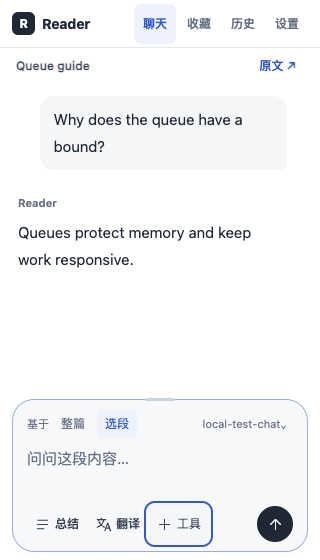
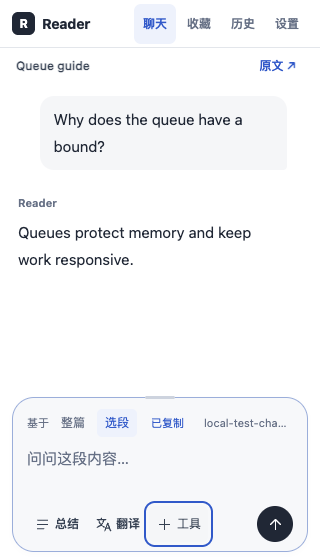
fix(reader): add direct copy for the current selection

Changed region(s): [[0.0625, 0.6982, 0.9375, 0.7893], [0.9375, 0.7286, 0.9688, 0.7589], [0.0312, 0.7286, 0.0625, 0.7589]]

diff --git a/apps/extension/sidepanel.css b/apps/extension/sidepanel.css
@@ -94,12 +94,12 @@ h1, h2, h3, p { margin: 0; }
 .composer-scope-label { color: var(--muted); font-size: 11px; }
 .composer-context-status { display: none; }
 .composer-question-label { position: absolute; width: 1px; height: 1px; overflow: hidden; clip-path: inset(50%); }
-.composer-model { margin-left: auto; max-width: 46%; overflow: hidden; text-overflow: ellipsis; white-space: nowrap; min-height: 28px; padding: 2px 6px; border: 0; border-radius: 6px; background: transparent; color: var(--muted); font-size: 11px; }
+.composer-model { margin-left: auto; min-width: 0; max-width: 46%; overflow: hidden; text-overflow: ellipsis; white-space: nowrap; min-height: 28px; padding: 2px 6px; border: 0; border-radius: 6px; background: transparent; color: var(--muted); font-size: 11px; }
 .composer-model:hover { background: var(--line); color: var(--ink); }
 .composer-context-row:has(.discussion-scope-options:not(.hidden)) .composer-scope-label { display: none; }
-.discussion-scope-options { display: flex; align-items: center; gap: 4px; }
-.discussion-scope-label { color: var(--muted); font-size: 11px; }
-.scope-option { min-height: 28px; padding: 3px 8px; border: 0; border-radius: 5px; color: var(--muted); background: transparent; font-size: 12px; }
+.discussion-scope-options { display: flex; flex: none; align-items: center; gap: 4px; }
+.discussion-scope-label { white-space: nowrap; color: var(--muted); font-size: 11px; }
+.scope-option { flex: none; white-space: nowrap; min-height: 28px; padding: 3px 8px; border: 0; border-radius: 5px; color: var(--muted); background: transparent; font-size: 12px; }
 .scope-option.active { color: var(--accent); background: var(--accent-soft); }
 .chat-composer textarea { display: block; width: 100%; height: 60px; min-height: 60px; max-height: min(240px,40dvh); padding: 4px 0; margin: 0; border: 0; border-radius: 0; outline: none; background: transparent; font-size: 15px; line-height: 1.65; resize: none; }
 .chat-composer textarea:focus-visible { outline: none; }
@@ -209,3 +209,6 @@ input::placeholder, textarea::placeholder { color: var(--muted); }
 @media (max-height: 560px) { .masthead { height: 48px; } .discussion-source-card { min-height: 36px; padding-block: 2px; } .chat-composer { margin-bottom: 8px; } .chat-transcript { padding-block: 12px; } }
 
 @media (max-width: 359px) { .composer-tools > button, .composer-tools > details > summary { padding-inline: 7px; gap: 4px; } }
+
+.selection-copy { flex: none; min-height: 30px; padding: 3px 6px; border: 0; border-radius: 6px; color: var(--accent); background: transparent; font-size: 11px; white-space: nowrap; }
+.selection-copy:hover { background: var(--accent-soft); }

diff --git a/apps/extension/sidepanel.js b/apps/extension/sidepanel.js
@@ -133,6 +133,7 @@ function setWorkspaceView(view) {
 function setupWorkspaceLayout() {
   $('chat-to-reading')?.addEventListener('click', () => focusReadingAnchor(activeDiscussionScope() === 'selection' ? selectionContext?.selection : null));
   $('chat-translate-all')?.addEventListener('click', () => { focusReadingAnchor(null); void startFullTranslation(); });
+  $('copy-chat-selection')?.addEventListener('click', () => void copyCurrentSelection());
   $('clear-chat-selection')?.addEventListener('click', () => { selectionContext = null; discussionScope = 'page'; discussionIntent = 'ask'; renderPage(); saveLocalSession(); });
   const toolsMenu = $('chat-tools-menu');
   document.addEventListener('pointerdown', event => { if (toolsMenu?.open && !toolsMenu.contains(event.target)) toolsMenu.open = false; });
@@ -209,6 +210,21 @@ function setChatExpanded(expanded) {
   }
 }
 
+async function copyCurrentSelection() {
+  const quote = selectionContext?.selection?.quote;
+  if (activeDiscussionScope() !== 'selection' || !quote) return;
+  try {
+    await navigator.clipboard.writeText(quote);
+    const button = $('copy-chat-selection');
+    if (button) {
+      button.textContent = '已复制';
+      window.setTimeout(() => { button.textContent = '复制选段'; }, 1800);
+    }
+  } catch {
+    setNotice('浏览器没有开放剪贴板权限，请在原网页选择原文复制。');
+  }
+}
+
 function setNotice(message = '', target = $('notice')) {
   target.textContent = message;
   show(target, Boolean(message));
@@ -278,6 +294,7 @@ function renderPersistentComposer(scope = activeDiscussionScope()) {
   show(composer, visible);
   const descriptor = pageReadDescriptor(context);
   const selectionReady = scope === 'selection' && Boolean(context?.selection?.quote);
+  show($('copy-chat-selection'), selectionReady);
   const pageReady = scope !== 'page' || contextHasReadableBody(context);
   const canSend = scope === 'page'
     ? contextHasReadableBody(context)

diff --git a/apps/extension/entrypoints/sidepanel/main.tsx b/apps/extension/entrypoints/sidepanel/main.tsx
@@ -131,7 +131,7 @@ function ReaderPanel() {
               <button id="scope-selection" className="scope-option hidden" type="button" aria-pressed="false">选段</button>
               <button id="scope-image" className="scope-option hidden" type="button" aria-pressed="false">图示</button>
             </div>
-                <span id="composer-scope-label" className="composer-scope-label">整页正文</span><button id="composer-model" className="composer-model" type="button" title="模型与连接设置">阅读模型⌄</button>
+                <button id="copy-chat-selection" className="selection-copy hidden" type="button" aria-label="复制当前原文选段" title="复制当前原文选段">复制选段</button><span id="composer-scope-label" className="composer-scope-label">整页正文</span><button id="composer-model" className="composer-model" type="button" title="模型与连接设置">阅读模型⌄</button>
                 <span id="composer-context-status" className="composer-context-status">正文状态：正在读取</span><span id="chat-scope-description" className="hidden">基于整篇文章</span>
               </div>
               <div id="translation-summary" className="translation-summary hidden" role="status"><span id="translation-summary-text" /><button id="translation-summary-pause" className="text-button" type="button">暂停</button></div>

diff --git a/apps/extension/README.md b/apps/extension/README.md
@@ -6,7 +6,7 @@
 
 聊天是主要入口，输入区包含总结、翻译和“工具”菜单（文章地图、关键机制、取舍、标注与保存）。收藏和历史保持独立入口。原文继续在网页阅读，证据链接只滚动和高亮原文。
 
-聊天与历史使用同一套紧凑导航和正文排版。输入区旁显示当前模型，点击可进入连接设置；选段出现后可以切换整篇/选段范围。长问题会自动撑高输入框，也可拖动上沿或用方向键调整高度；⌘/Ctrl+Enter 发送，Enter 换行。草稿在同一侧栏进入历史再返回时保留，不承诺浏览器关闭后的草稿持久化。聊天视觉交互参考 [Open WebUI 官方聊天界面](https://docs.openwebui.com/features/chat-conversations/chat-features/)，并按浏览器侧栏宽度收敛。
+聊天与历史使用同一套紧凑导航和正文排版。输入区旁显示当前模型，点击可进入连接设置；选段出现后可以切换整篇/选段范围；选段模式旁的“复制选段”复制当前原文，成功后显示“已复制”。长问题会自动撑高输入框，也可拖动上沿或用方向键调整高度；⌘/Ctrl+Enter 发送，Enter 换行。草稿在同一侧栏进入历史再返回时保留，不承诺浏览器关闭后的草稿持久化。聊天视觉交互参考 [Open WebUI 官方聊天界面](https://docs.openwebui.com/features/chat-conversations/chat-features/)，并按浏览器侧栏宽度收敛。
 
 问答由扩展后台执行，固定使用发起时的正文、选段和聊天上下文。重新选段、翻译、打开设置、切换标签或关闭侧栏不会取消回答；结果写回对应文章版本的本地会话。重新打开会接回正在执行的任务，只有“停止回答”会主动取消。浏览器退出或强制停止 Service Worker 无法继续推理，会显示中断并保留问题；不会自动重发计费请求。
 
@@ -23,10 +23,10 @@
 1. 在仓库根目录运行 `pnpm install`（首次准备依赖），再进入本目录运行 `npm run build`。
 2. 打开 Chrome `chrome://extensions`，开启开发者模式，选择“加载已解压的扩展程序”，选中 `.output/chrome-mv3`，不要选源码目录。
 3. 打开一篇公开技术文章，点击扩展图标。
-3. 在侧栏“设置”选择运行模式：独立模式选择服务商或 Local Proxy，填写服务地址与所需的 API Key 后自动读取模型列表；localhost、127.0.0.1 和 ::1 本地服务的 Key 选填。模型列表不可用时可展开自定义模型 ID。快速连接验证只发送一个短文本请求，图片能力按需检测；平台模式连接 Deep Research 后直接使用平台 AI Engine，不需要本地模型配置。两种模式各自只显示当前模式所需的连接配置。
-4. 点击“全文翻译”。正文按块处理，图片会尝试识别文字：坐标可靠且译文能安全容纳时覆盖原文（图表纵向坐标轴使用纵向排版），坐标不足以安全覆盖时保留原图，并在对应文字外侧显示“原文 → 译文”的锚定旁译；完全无法定位时才显示整图旁侧说明。失败项会保留原因，可恢复原文后重试。
-5. 在当前页面“全文翻译”旁选择目标语言，再点击全文翻译；选择正文使用“解读 / 追问 / 收藏”。会话、收藏和有限翻译缓存使用 IndexedDB；“导出阅读数据”可导出本地 JSON，API Key 会被自动剔除；设置页可以清除全部本地会话、收藏、配置和缓存。
-6. 点击顶部“历史”，可按页面查看聊天会话或收藏的知识结论，搜索历史问题，重命名、删除和分别导出；页面版本变化后旧会话会标记为旧版本，不会错误复用原文证据。
+4. 在侧栏“设置”选择运行模式：独立模式选择服务商或 Local Proxy，填写服务地址与所需的 API Key 后自动读取模型列表；localhost、127.0.0.1 和 ::1 本地服务的 Key 选填。模型列表不可用时可展开自定义模型 ID。快速连接验证只发送一个短文本请求，图片能力按需检测；平台模式连接 Deep Research 后直接使用平台 AI Engine，不需要本地模型配置。两种模式各自只显示当前模式所需的连接配置。
+5. 点击“全文翻译”。正文按块处理，图片会尝试识别文字：坐标可靠且译文能安全容纳时覆盖原文（图表纵向坐标轴使用纵向排版），坐标不足以安全覆盖时保留原图，并在对应文字外侧显示“原文 → 译文”的锚定旁译；完全无法定位时才显示整图旁侧说明。失败项会保留原因，可恢复原文后重试。
+6. 在当前页面“全文翻译”旁选择目标语言，再点击全文翻译；选择正文使用“解读 / 追问 / 收藏”。会话、收藏和有限翻译缓存使用 IndexedDB；“导出阅读数据”可导出本地 JSON，API Key 会被自动剔除；设置页可以清除全部本地会话、收藏、配置和缓存。
+7. 点击顶部“历史”，可按页面查看聊天会话或收藏的知识结论，搜索历史问题，重命名、删除和分别导出；页面版本变化后旧会话会标记为旧版本，不会错误复用原文证据。
 
 ## 本地验收命令
 

diff --git a/docs/weekly/2026-10-13-reader-ui-performance-audit.md b/docs/weekly/2026-10-13-reader-ui-performance-audit.md
@@ -39,8 +39,10 @@
 
 真实生产模型在首次重设计验收中返回了answer字段包含未转义双引号的JSON，平台回退后整个JSON展示为代码。增加限定信封格式的正文恢复，并兼容旧本地会话；保留服务器验证后的证据，不改写存储、不绕过逐字证据检查。随后真实Chrome在聊天和历史中均恢复正文，新的MDN问题返回正常正文、1条完整英文可定位证据。背景/推断/限制中的引用也绑定到原文，避免跳到插件内部碎片URL；普通会话恢复与已完成翻译不再重复占用提示区，异常/旧版本提示保留。
 
-最终本地门禁：Node95/95、WXT production build、扩展TypeScript和diff check通过。独立Chromium验收覆盖320×560、380×860、520×720、736×740，无横向溢出；聊天滚动区分别315、611、471、491px，默认composer153px，header48px。长输入自动增长/缩回、模型设置、More边界/Escape、历史搜索/详情/继续/设置/收藏导航、草稿返回、键盘调高、停止和后台任务恢复均通过。背景引用href已断言原文章URL；问答期间选段、翻译、关闭重开仍只有1次问答请求，模型验证1次文本请求。受控服务不代表真实模型延迟。
+最终本地门禁：Node96/96、WXT production build、扩展TypeScript和diff check通过。独立Chromium验收覆盖320×560、380×860、520×720、736×740，无横向溢出；聊天滚动区分别313、609、469、489px，选段模式composer155px，header48px。长输入自动增长/缩回、模型设置、More边界/Escape、历史搜索/详情/继续/设置/收藏导航、草稿返回、键盘调高、停止和后台任务恢复均通过。背景引用href已断言原文章URL；复制选段验证写入当前原文、成功反馈及整篇模式隐藏，320px范围标签不换行；问答期间选段、翻译、关闭重开仍只有1次问答请求，模型验证1次文本请求。受控服务不代表真实模型延迟。
 
 真实Chrome已加载0.2.10（原解压目录和ID不变），英文MDN验证工具分组、输入高度76→157→76、历史46会话/1结论、详情正文修复、草稿保留、⌘+Enter实际平台回答及证据。原生宽度拖动尚未确认：控制前用户切回了工作窗口，未继续操作该窗口。生产0.2.10发布及官方包复验待追加。
 
 设计约定见 [reader-conversation](../design/reader-conversation.md)。受控截图：[380px聊天](./reader-audit-20261013/chat-openwebui-380.png)、[320px聊天](./reader-audit-20261013/chat-openwebui-320.png)、[历史](./reader-audit-20261013/history-openwebui.png)；原生历史截图为 `reader-audit-20261013/history-openwebui-native.png`。
+
+用户后续指出选段缺少复制入口，已在回答范围旁增加“复制选段”，独立Chromium和专门回归验证复制原文而非AI回答。首个0.2.10提交的CI在发布前取消，最终包包含此补齐；复制按钮原生复验待官方包加载。

diff --git a/docs/PROJECT_STATUS.md b/docs/PROJECT_STATUS.md
@@ -5,7 +5,7 @@
 
 ## 当前基线
 
-- 2026-10-13 Reader 0.2.10重设计本地/真实Chrome验收：参考Open WebUI官方聊天界面，48px统一导航、单列大聊天区、圆角输入框、集中工具与模型入口，历史同风格；长输入自动增高，历史往返草稿保留。真实模型未转义JSON回答已兼容恢复正文，证据验证保留；消除重复完成提示和背景引用内部地址跳转。Node95/95、WXT/TypeScript及四尺寸受控浏览器通过；真实Chrome验证76→157输入高度、历史恢复、真实平台回答与英文证据。生产0.2.10发布待追加；原生侧栏宽度拖动未确认。详见 [本轮验收](./weekly/2026-10-13-reader-ui-performance-audit.md)。
+- 2026-10-13 Reader 0.2.10重设计本地/真实Chrome验收：参考Open WebUI官方聊天界面，48px统一导航、单列大聊天区、圆角输入框、集中工具与模型入口，历史同风格；长输入自动增高，历史往返草稿保留；选段范围旁可直接复制原文并显示成功反馈。真实模型未转义JSON回答已兼容恢复正文，证据验证保留；消除重复完成提示和背景引用内部地址跳转。Node96/96、WXT/TypeScript及四尺寸受控浏览器通过；真实Chrome验证76→157输入高度、历史恢复、真实平台回答与英文证据。生产0.2.10发布待追加；原生侧栏宽度拖动未确认。详见 [本轮验收](./weekly/2026-10-13-reader-ui-performance-audit.md)。
 
 - 2026-10-13 Reader 0.2.9 本地验收：聊天与工具合并，模型自动发现/本地代理 Key 选填/短文本快速验证，翻译邻段语境和 Alt+Shift+O 单段切换，后台问答不再因选段或侧栏关闭取消；普通长文完整流式、超长文并行核对。Node94/94、扩展/Web TypeScript、WXT build、Reading API14/14、Python assistant19/19、全量 Ruff/Mypy103源文件及diff通过。隔离浏览器验证回答只发起一次、关闭重开恢复、首次选段动作和停止；全文翻译1042/1042及恢复通过。真实Chrome0.2.9界面及关闭侧栏后的平台回答恢复通过；首次右键历史恢复覆盖新选段已修复并补断言。0.2.9已发布部署至5846e9f8，CI38374325351/Deploy38374726519成功，官方ZIP与安装元数据匹配，生产Web/Engine healthy。真实MiniMax-M3对69,391字符公开长文首增量8.237秒、完整17.096秒、3证据逐字匹配；不与修复前观察上界计算比率。详见 [本轮验收](./weekly/2026-10-13-reader-ui-performance-audit.md)。
 

diff --git a/docs/design/reader-conversation.md b/docs/design/reader-conversation.md
@@ -20,3 +20,5 @@ Highest risk: moving imperative DOM targets and navigating history while an answ
 
 
 Open WebUI refinement: official current chat screenshots and `MessageInput.svelte` were inspected on 2026-10-13. Sources: https://docs.openwebui.com/features/chat-conversations/chat-features/ and https://github.com/open-webui/open-webui/blob/main/src/lib/components/chat/MessageInput.svelte . The observed reference uses a large-radius composer, grouped tool menu, compact model control, quiet responses, and prompt suggestions. Reader adapts those patterns to a single narrow sidebar: shared 48px header, 36px source row, neutral 22px-radius composer, labeled Summary/Translate/Tools controls, model/settings access beside scope, useful empty-state starter actions, and automatic growth for multiline drafts while retaining drag/keyboard resizing. Older answers gain in-place Copy; the latest answer retains verified-evidence copying and saving. No Open WebUI code, logos, dependencies, or unrelated capabilities are imported.
+
+Selection copy follow-up: when selection scope is active, Copy Selection appears beside the scope control, copies the current original quote, and confirms success. It hides in page scope. Scope labels are non-wrapping and model text truncates at narrow widths. This is a direct action, not buried in Tools.
